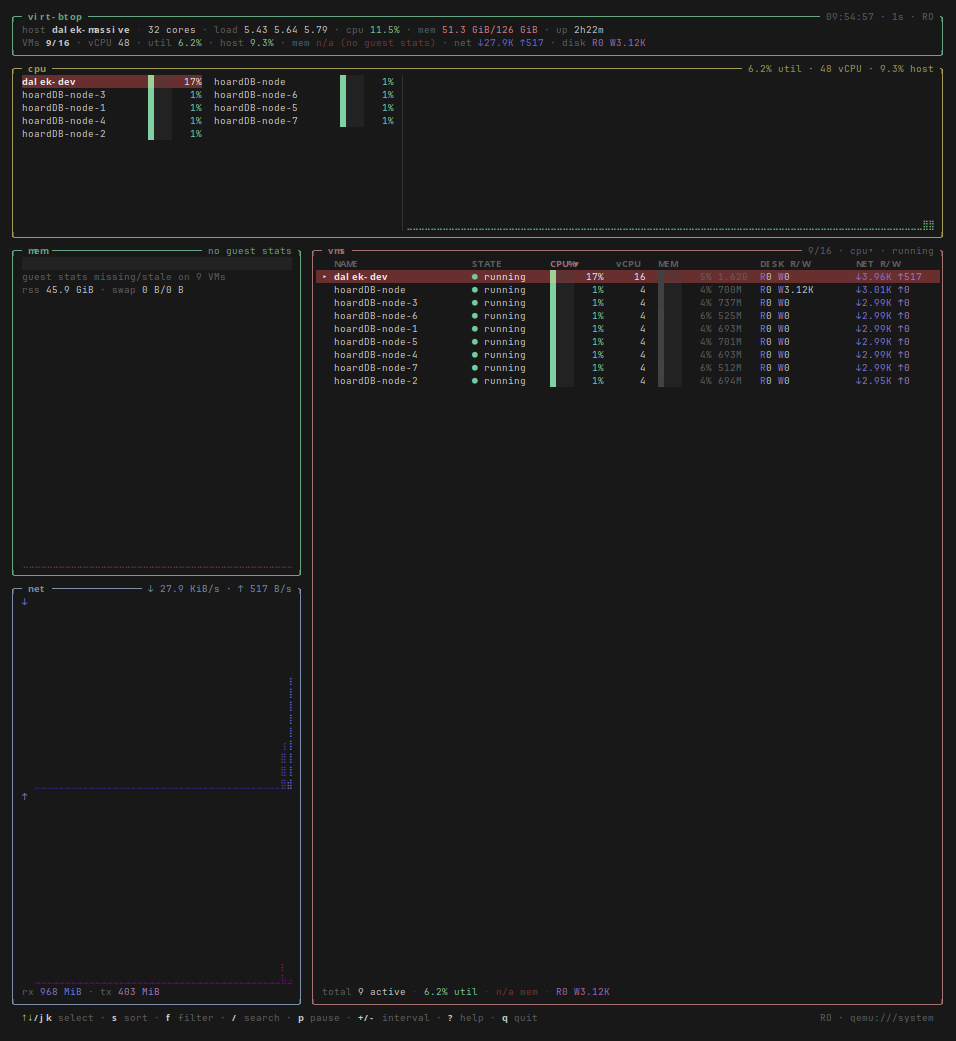
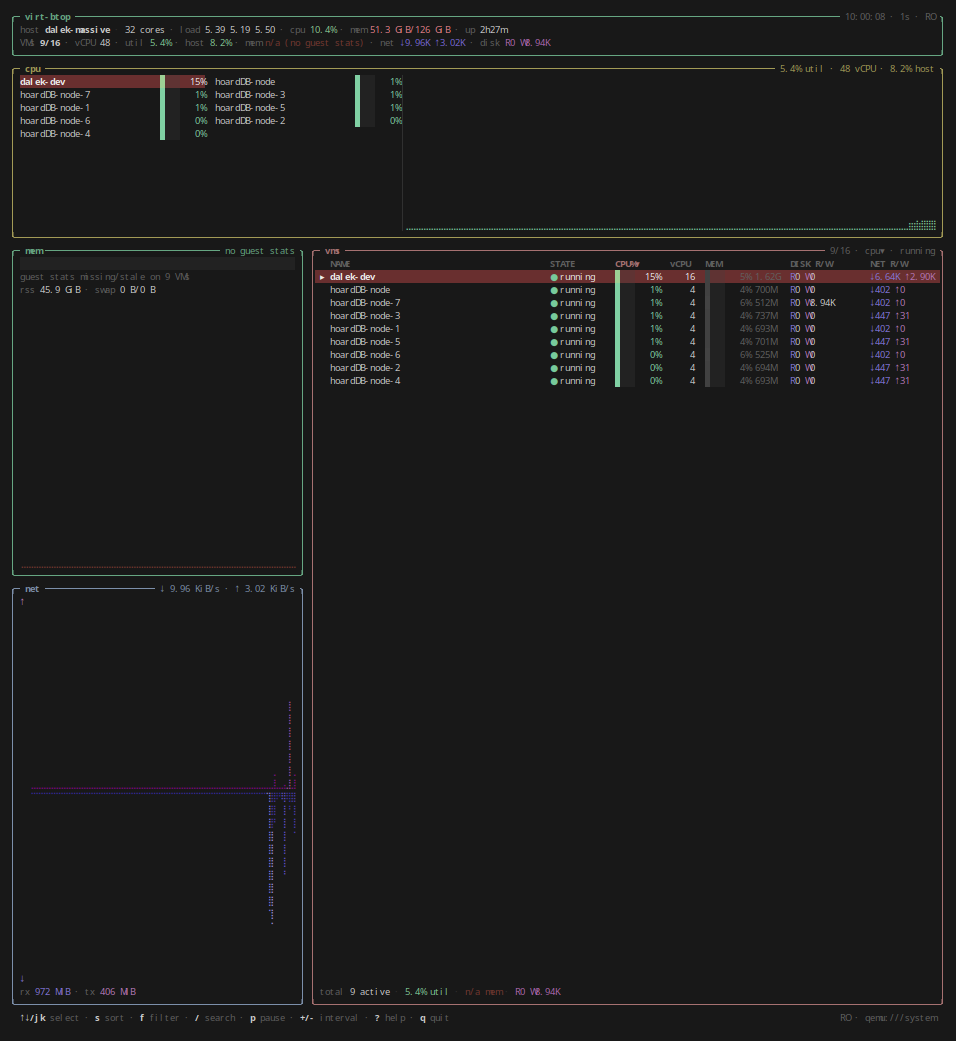
net: single mirrored graph (upload up, download down) and refreshed screenshot

diff --git a/internal/tui/render.go b/internal/tui/render.go
@@ -355,14 +355,12 @@ func (m *Model) renderNet(s *Screen, l Layout) {
 		totalsH = 1
 	}
 	graphArea := h - totalsH
-	rxH := graphArea / 2
-	if rxH < 1 {
-		rxH = 1
-	}
-	txH := graphArea - rxH
+	// One mirrored graph sharing a midline: upload grows up, download grows down.
+	txH := graphArea / 2
 	if txH < 1 {
 		txH = 1
 	}
+	rxH := graphArea - txH
 	graphW := w - 2
 	if graphW < 1 {
 		return
@@ -371,13 +369,13 @@ func (m *Model) renderNet(s *Screen, l Layout) {
 	txVals := metrics.Window(m.hist.NetTX, graphW*2)
 	maxVal := niceMax(maxOf(rxVals, txVals) * 1.05)
 
-	s.Put(x, y, 1, "↓", Style{FG: m.pal.Download.At(0.6)})
-	DrawBraille(s, x+2, y, graphW, rxH, rxVals, maxVal,
-		func(f float64) termenv.Color { return m.pal.Download.At(f) })
-	if txH > 0 {
-		s.Put(x, y+rxH, 1, "↑", Style{FG: m.pal.Upload.At(0.6)})
-		DrawBraille(s, x+2, y+rxH, graphW, txH, txVals, maxVal,
-			func(f float64) termenv.Color { return m.pal.Upload.At(f) })
+	s.Put(x, y, 1, "↑", Style{FG: m.pal.Upload.At(0.6)})
+	DrawBraille(s, x+2, y, graphW, txH, txVals, maxVal,
+		func(f float64) termenv.Color { return m.pal.Upload.At(f) })
+	if rxH > 0 {
+		s.Put(x, y+graphArea-1, 1, "↓", Style{FG: m.pal.Download.At(0.6)})
+		DrawBrailleDown(s, x+2, y+txH, graphW, rxH, rxVals, maxVal,
+			func(f float64) termenv.Color { return m.pal.Download.At(f) })
 	}
 	if totalsH > 0 {
 		putSpans(s, x, y+graphArea, w, []span{

diff --git a/internal/tui/graph.go b/internal/tui/graph.go
@@ -10,6 +10,16 @@ import (
 // braille (U+2800-U+28FF), giving 2x4 sub-cell resolution. The area under the
 // sampled value is filled down to the baseline.
 func DrawBraille(s *Screen, x, y, w, h int, values []float64, maxVal float64, colorAt func(float64) termenv.Color) {
+	drawBraille(s, x, y, w, h, values, maxVal, colorAt, false)
+}
+
+// DrawBrailleDown is like DrawBraille but mirrored vertically: the baseline is
+// the top edge and the graph grows downward.
+func DrawBrailleDown(s *Screen, x, y, w, h int, values []float64, maxVal float64, colorAt func(float64) termenv.Color) {
+	drawBraille(s, x, y, w, h, values, maxVal, colorAt, true)
+}
+
+func drawBraille(s *Screen, x, y, w, h int, values []float64, maxVal float64, colorAt func(float64) termenv.Color, flip bool) {
 	if w <= 0 || h <= 0 || s == nil {
 		return
 	}
@@ -49,11 +59,18 @@ func DrawBraille(s *Screen, x, y, w, h int, values []float64, maxVal float64, co
 			yd = maxY
 		}
 
+		if flip {
+			yd = maxY - yd // distance from the top baseline
+		}
 		cx := i / 2
 		sx := i % 2
 		color := colorAt(frac)
 		// Fill from the sampled value down to the baseline.
-		for yy := yd; yy <= maxY; yy++ {
+		lo, hi := yd, maxY
+		if flip {
+			lo, hi = 0, yd
+		}
+		for yy := lo; yy <= hi; yy++ {
 			cy := yy / 4
 			sy := yy % 4
 			if cx < 0 || cx >= w || cy < 0 || cy >= h {
